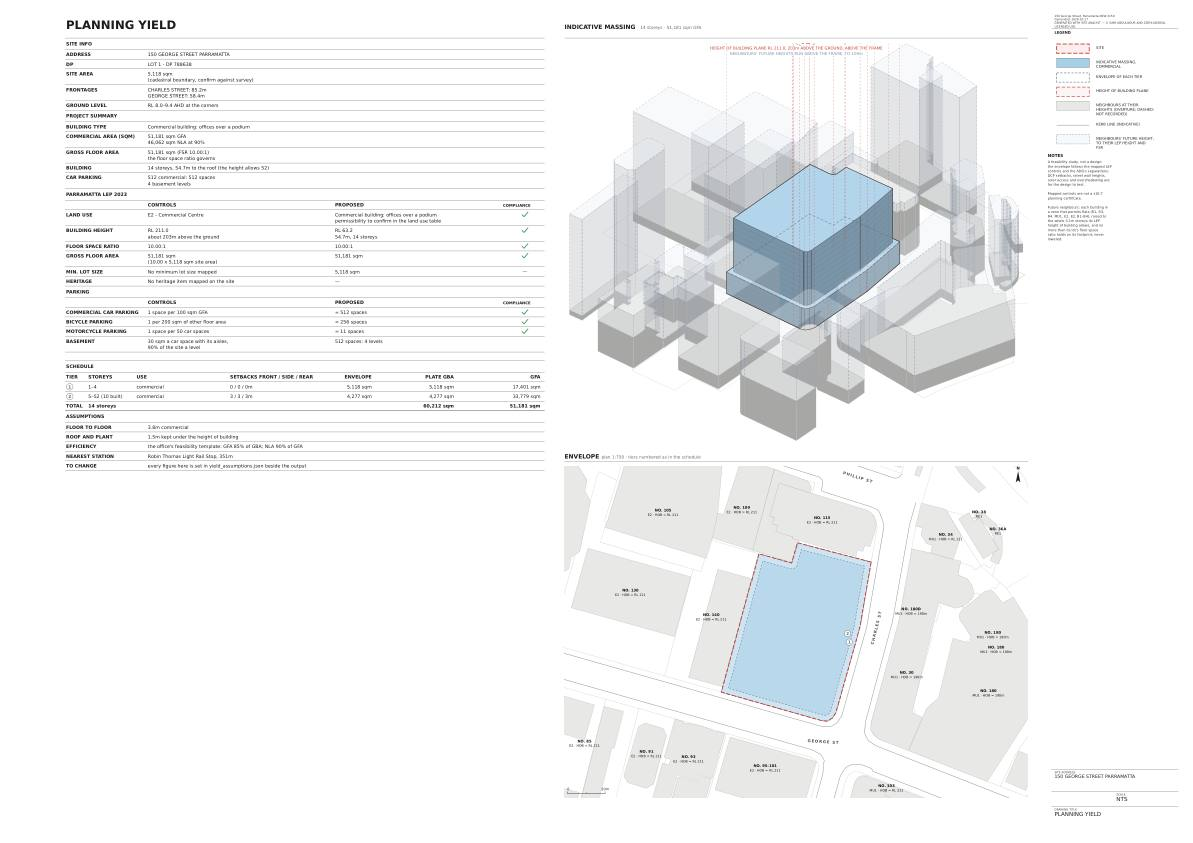
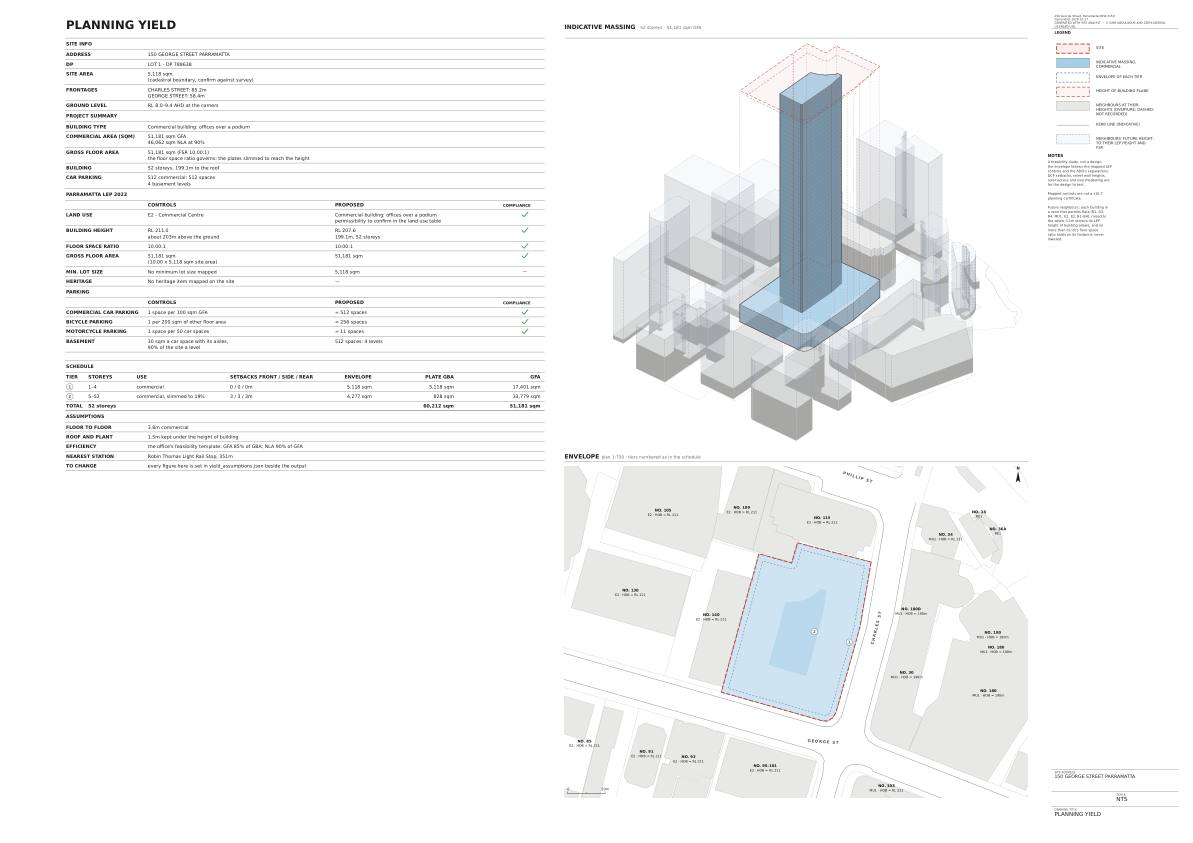
Planning yield: where the FSR governs, the proposal slims to reach the height
The study stopped the building where the floor space ratio ran out, at full
plates: 9-11 Thallon St at 7 storeys under a height that holds 8, 150
George St, Parramatta at 14 under RL 211's 52. Now, where the ratio would
stop it below its height, the plates above the shops and the podium are
slimmed by one share until the ratio's floor area reaches the top storey
the height holds: the same floor area and apartments, taller and slimmer.
A perimeter block's wings grow shallower round a wider courtyard; a block
or a tower is set further in. Thallon St rises to 8 storeys at 82% plates;
Parramatta becomes its full-site podium and a 52-storey tower of 828 m²
plates to RL 207.6. The search takes the plate at or over its target so
the ratio, not the grid, trims the top storey.

No plate is slimmed under 250 m² (minPlateSqm); there the building stops
short of the height. "reachHeight": false in yield_assumptions.json keeps
the old behaviour. The schedule marks a slimmed tier ("slimmed to 82%"),
the floor area row says the plates were slimmed to reach the height, and
the PLATES assumption states the rule. The web preview is redrawn on it.

Claude-Session: https://claude.ai/code/session_01WPoKLCx3sAatyQhh7CMovm

Changed region(s): [[0.4652, 0.0308, 0.8684, 0.4935], [0.1551, 0.1851, 0.2481, 0.2159], [0.6823, 0.7402, 0.7133, 0.7711]]

diff --git a/src/lib/yield.ts b/src/lib/yield.ts
@@ -78,6 +78,14 @@ export interface YieldAssumptions {
   basementCoverage: number;
   /** The in-fill affordable housing bonus (Housing SEPP): extra FSR and height, as fractions. */
   affordableBonus: number;
+  /**
+   * Where the floor space ratio stops the building below its height: slim the
+   * plates above the shops and the podium until its floor area reaches the
+   * height (true), or stop it short of the height at full plates (false).
+   */
+  reachHeight: boolean;
+  /** The least a slimmed plate keeps (GBA): under it, the building stops short of the height. */
+  minPlateSqm: number;
 }
 
 // The parking rates of the Guide to Traffic Generating Developments (RTA
@@ -110,6 +118,7 @@ export const DEFAULT_ASSUMPTIONS: YieldAssumptions = {
   motorcycleEvery: 50,
   basementSqmPerSpace: 30, basementCoverage: 0.9,
   affordableBonus: 0.3,
+  reachHeight: true, minPlateSqm: 250,
 };
 
 /** What the zone builds: apartments, shops under apartments, offices, or none of these. */
@@ -189,6 +198,8 @@ export interface Tier {
   plate: XY[][];
   /** The plate's limit, when one applies: 'depth' (ADG 2E) or 'tower' (the plate size). */
   held?: 'depth' | 'tower';
+  /** Slimmed to reach the height under the floor space ratio: the share of its plate it keeps. */
+  slim?: number;
 }
 
 export interface YieldInput {
@@ -451,8 +462,11 @@ export function computeYield(input: YieldInput): YieldResult {
   // The lot's own area on the grid, so a plate is scaled to the cadastral area rather than the grid's approximation of it.
   const scale = A / Math.max(cellA, count(g.inside) * cellA);
   const kinds = edgeKinds(ring, ring.map((_, i) => !!input.fronts[i]));
+  const slacks: Float32Array[] = [], slimmable: boolean[] = [];
   const tiers: Tier[] = tiersFor(arch, storeysByHeight, a).map(({ podium: isPodium, ...t }) => {
     const slack = slackOf(g, kinds.map((kd) => (kd === 'front' ? t.front : kd === 'rear' ? t.rear : t.side)));
+    slacks.push(slack);
+    slimmable.push(!isPodium && t.use !== 'retail');
     const env = cellsWhere(slack, () => true);
     const envelopeSqm = count(env) * cellA * scale;
     let plateMask = env, held: Tier['held'];
@@ -482,15 +496,57 @@ export function computeYield(input: YieldInput): YieldResult {
   // Storey by storey, until the height runs out or the floor space ratio does.
   const eff = (u: Use) => (u === 'residential' ? a.residentialEfficiency : u === 'retail' ? a.retailEfficiency : a.commercialEfficiency);
   const cap = input.fsr ? input.fsr * A : Infinity;
-  const floors: YieldResult['floors'] = [];
-  let capacity = 0, total = 0;
-  for (const t of tiers) for (let s = t.from; s <= t.to; s++) {
-    const full = t.plateSqm * eff(t.use);
-    capacity += full;
-    if (total >= cap - 1e-6 || t.plateSqm < 1) continue;
-    const take = Math.min(full, cap - total);
-    floors.push({ storey: s, use: t.use, gba: t.plateSqm * (take / full), gfa: take });
-    total += take;
+  const build = () => {
+    const out: YieldResult['floors'] = [];
+    let full = 0, built = 0;
+    for (const t of tiers) for (let s = t.from; s <= t.to; s++) {
+      const whole = t.plateSqm * eff(t.use);
+      full += whole;
+      if (built >= cap - 1e-6 || t.plateSqm < 1) continue;
+      const take = Math.min(whole, cap - built);
+      out.push({ storey: s, use: t.use, gba: t.plateSqm * (take / whole), gfa: take });
+      built += take;
+    }
+    return { floors: out, full, built };
+  };
+  let { floors, full: capacity, built: total } = build();
+
+  // Where the floor space ratio stops the building below its height, the
+  // plates above the shops and the podium are slimmed by one share until the
+  // floor area the ratio allows reaches the top storey the height holds — the
+  // same floor area, taller and slimmer, a perimeter block's wings shallower
+  // round a wider courtyard, a block or a tower set further in. No plate is
+  // slimmed under minPlateSqm; where it would have to be, the building stops
+  // short of the height at that plate.
+  if (a.reachHeight && Number.isFinite(cap) && capacity > cap + 1e-6 && floors.length < storeysByHeight) {
+    const area = (t: Tier) => t.plateSqm * eff(t.use) * Math.max(0, t.to - t.from + 1);
+    const fixed = tiers.reduce((sum, t, i) => sum + (slimmable[i] ? 0 : area(t)), 0);
+    const flex = tiers.reduce((sum, t, i) => sum + (slimmable[i] ? area(t) : 0), 0);
+    if (flex > 0 && cap > fixed) {
+      const share = (cap - fixed) / flex;
+      tiers.forEach((t, i) => {
+        if (!slimmable[i] || t.plateSqm < 1) return;
+        const target = Math.max(t.plateSqm * share, Math.min(t.plateSqm, a.minPlateSqm));
+        // A perimeter round a courtyard keeps the cells within a depth of the
+        // setback line; anything else keeps the cells at least so far in.
+        const keep = t.held === 'depth' ? (d: number) => (s: number) => s <= d : (d: number) => (s: number) => s >= d;
+        const areaAt = (d: number) => count(cellsWhere(slacks[i], keep(d))) * cellA * scale;
+        let deepest = 0;
+        for (const v of slacks[i]) if (v > deepest) deepest = v;
+        let lo = 0, hi = deepest;
+        for (let it = 0; it < 28; it++) {
+          const mid = (lo + hi) / 2;
+          // Depth grows the perimeter; a set-in shrinks the block.
+          if ((areaAt(mid) > target) === (t.held === 'depth')) hi = mid; else lo = mid;
+        }
+        // The side of the search at or over the target, so the ratio, not the grid, trims the top storey.
+        const mask = cellsWhere(slacks[i], keep(t.held === 'depth' ? hi : lo));
+        const plateSqm = count(mask) * cellA * scale;
+        if (plateSqm >= t.plateSqm - 1e-6 || plateSqm < 1) return;
+        tiers[i] = { ...t, plateSqm, plate: outline(g, mask), slim: plateSqm / t.plateSqm };
+      });
+      ({ floors, built: total } = build());
+    }
   }
   const storeys = floors.length;
   const gfaByUse: Record<Use, number> = { retail: 0, residential: 0, commercial: 0 };

diff --git a/src/render/yieldSheet.ts b/src/render/yieldSheet.ts
@@ -194,7 +194,7 @@ export function yieldRows(b: YieldBundle, s: YieldStudy = yieldStudy(b)): YieldR
     const pct = (v: number) => `${fmt(v * 100, (v * 100) % 1 ? 1 : 0)}%`;
     if (y.gfaByUse.retail) rows.push({ label: 'RETAIL AREA (sqm)', controls: [`${sqm(y.gfaByUse.retail)} GFA, ground floor`, `${sqm(y.gfaByUse.retail * a.retailNlaRatio)} NLA at ${pct(a.retailNlaRatio)}`] });
     if (y.gfaByUse.commercial) rows.push({ label: 'COMMERCIAL AREA (sqm)', controls: [`${sqm(y.gfaByUse.commercial)} GFA`, `${sqm(y.gfaByUse.commercial * a.commercialNlaRatio)} NLA at ${pct(a.commercialNlaRatio)}`] });
-    rows.push({ label: 'GROSS FLOOR AREA', controls: [`${sqm(y.gfa)}${A ? ` (FSR ${(y.gfa / A).toFixed(2)}:1)` : ''}`, y.governs === 'fsr' ? 'the floor space ratio governs' : y.governs === 'envelope' ? 'the envelope governs: the FSR is not reached' : 'no FSR is mapped: the height governs'] });
+    rows.push({ label: 'GROSS FLOOR AREA', controls: [`${sqm(y.gfa)}${A ? ` (FSR ${(y.gfa / A).toFixed(2)}:1)` : ''}`, y.governs === 'fsr' ? (y.tiers.some((t) => t.slim) ? `the floor space ratio governs: the plates slimmed to reach the height` : 'the floor space ratio governs') : y.governs === 'envelope' ? 'the envelope governs: the FSR is not reached' : 'no FSR is mapped: the height governs'] });
     rows.push({ label: 'BUILDING', controls: [`${storeyWord(y.storeys)}, ${m1(Math.round(y.heightM * 10) / 10)} to the roof${y.storeys < y.storeysByHeight ? ` (the height allows ${y.storeysByHeight})` : ''}`] });
     const kindsOfSpace = [apartments ? `${y.parking.residents} resident, ${y.parking.visitors} visitor` : '', y.parking.nonResidential ? `${y.parking.nonResidential} ${y.gfaByUse.retail ? 'retail' : 'commercial'}` : ''].filter(Boolean).join(', ');
     rows.push({ label: 'CAR PARKING', controls: [
@@ -375,7 +375,7 @@ function renderSchedule(y: YieldResult, top: number): { svg: string; bottom: num
     const built = Math.max(0, Math.min(t.to, y.storeys) - t.from + 1);
     const ink = built ? undefined : '#9a9a9a';
     const st = t.from === t.to ? `${t.from}` : `${t.from}–${t.to}`;
-    const held = t.held === 'tower' ? `, tower plate to ${sqm(a.towerPlateMax)}` : t.held === 'depth' ? `, ${m1(a.maxDepth)} deep` : '';
+    const held = t.slim ? `, slimmed to ${fmt(t.slim * 100)}%` : t.held === 'tower' ? `, tower plate to ${sqm(a.towerPlateMax)}` : t.held === 'depth' ? `, ${m1(a.maxDepth)} deep` : '';
     const set = (v: number) => fmt(v, v % 1 ? 1 : 0);
     row(() => {
       const b = yy + PAD_TOP;
@@ -920,7 +920,7 @@ function drawYieldSheet(b: YieldBundle, meta: SheetMeta): string {
       : `GFA ${pc(a.commercialEfficiency)} of GBA; NLA ${pc(a.commercialNlaRatio)} of GFA`}`] },
     ...(apartments ? [
       { label: 'MIX', controls: [`${UNIT_KINDS.every((k) => a.mix[k] === DEFAULT_ASSUMPTIONS.mix[k] && a.sizes[k] === DEFAULT_ASSUMPTIONS.sizes[k]) ? 'the office\'s feasibility template' : 'from yield_assumptions.json'}: ${inMix(y).map((k) => `${pc(a.mix[k])} ${UNIT_SHORT[k]} at ${fmt(a.sizes[k])} sqm`).join(', ')}; average ${fmt(y.averageUnitSqm, 1)} sqm`] },
-      { label: 'PLATES', controls: [`held to ${m1(a.maxDepth)} deep; towers to ${sqm(a.towerPlateMax)} GBA`] },
+      { label: 'PLATES', controls: [`held to ${m1(a.maxDepth)} deep; towers to ${sqm(a.towerPlateMax)} GBA${a.reachHeight ? `; where the FSR governs, slimmed above the podium to reach the height (at least ${sqm(a.minPlateSqm)})` : ''}`] },
     ] : []),
     { label: 'NEAREST STATION', controls: [b.station ? `${titleWords(b.station.name)}, ${fmt(b.station.distanceM)}m` : 'none within 1.2 km'] },
     { label: 'TO CHANGE', controls: ['every figure here is set in yield_assumptions.json beside the output'] },

diff --git a/README.md b/README.md
@@ -887,8 +887,17 @@ local metres:
   building area, the office template's BEA) by the template's building
   efficiencies, as sun-study's yield analysis keeps them: 72.5% residential,
   95% retail, 85% commercial; the net lettable area is 85% of residential
-  GFA and 90% of retail and commercial. Where the FSR governs, a leaner
-  efficiency builds the same floor area higher.
+  GFA and 90% of retail and commercial.
+- **To the height.** Where the FSR would stop the building below its
+  height at full plates, the plates above the shops and the podium are
+  slimmed by one share until the ratio's floor area reaches the top storey
+  the height holds: the same floor area and apartments, taller and slimmer —
+  a perimeter block's wings shallower round a wider courtyard, a block or a
+  tower set further in. 9-11 Thallon St rises to 8 storeys at 82% plates;
+  150 George St, Parramatta becomes its podium and a 52-storey tower of
+  828 m² plates to RL 207.6. No plate is slimmed under 250 m²
+  (`minPlateSqm`); `"reachHeight": false` in `yield_assumptions.json` keeps
+  full plates and stops the building where the ratio runs out.
 - **Apartments.** The net lettable (saleable) area over the mix's
   average size, shared out by the mix. The mix is the office's feasibility
   template, as sun-study's yield analysis keeps it: no studios, 20% one
